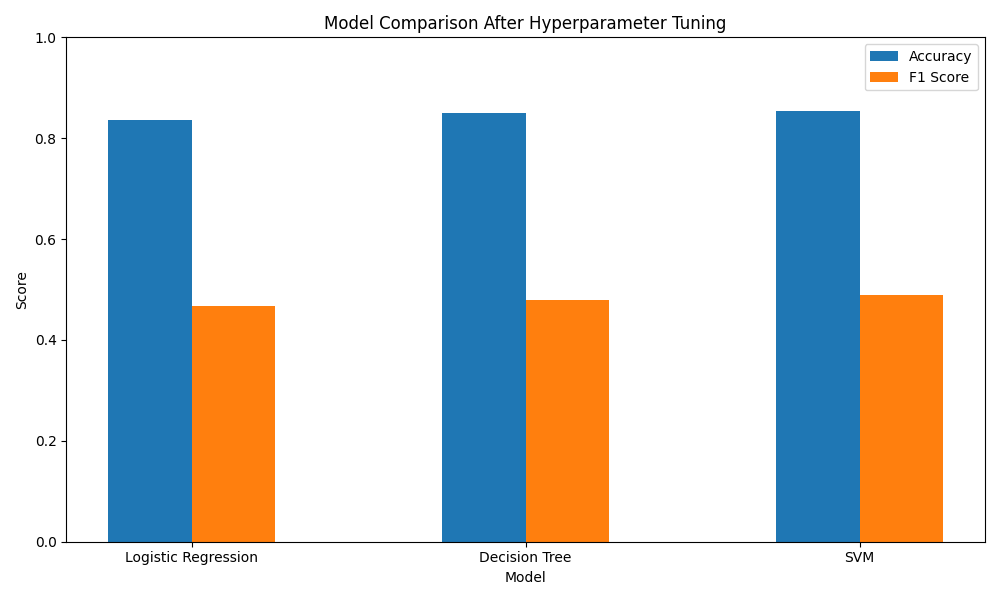
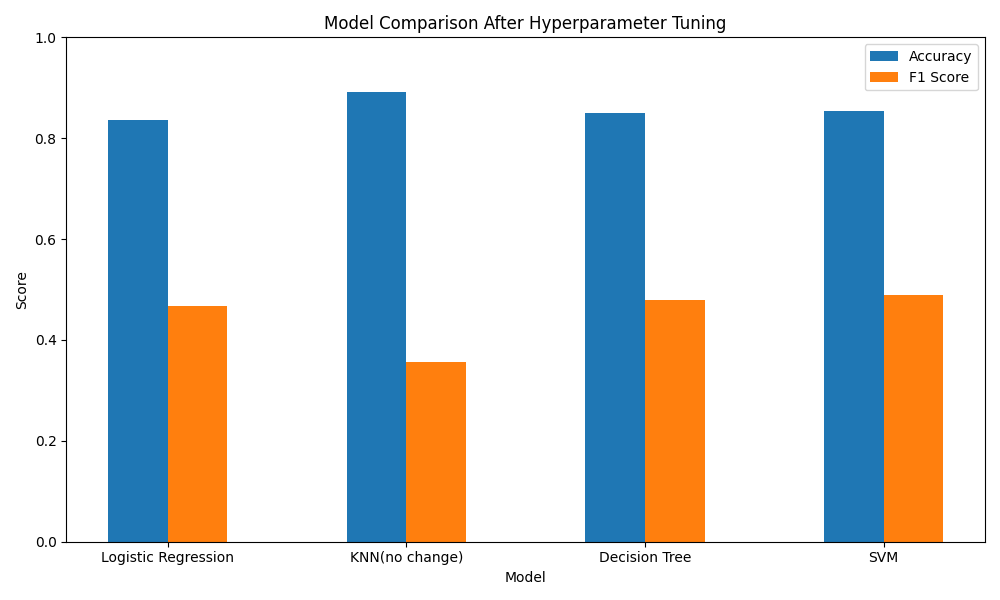
updating README

Changed region(s): [[0.341, 0.15, 0.713, 0.96], [0.775, 0.18, 0.899, 0.96], [0.093, 0.18, 0.279, 0.96]]

diff --git a/Assignment_17.1/README.md b/Assignment_17.1/README.md
@@ -22,18 +22,20 @@ The classification goal is to predict if the client will subscribe a term deposi
 ## Improving the model by finding optimal hyperparameters.
 | Model | Train Time | Test Accuracy | F1 Score | 
 | ----- | ---------- | -----------   | -------- | 
-| KNN | 8.9s | 0.9120 | 0.8926 | 
-| Decision Tree | 4.5s | 0.9002 | 0.3227 | 
-| SVM | 3m 48.8s | 0.8949 |  0.3687 | 
+| Logistic Regression | 3.6s | 0.9012 | 0.3414 | 
+| KNN | 7.7s | 0.8925 | 0.3571 | 
+| Decision Tree | 4.8s | 0.9002 | 0.3884 | 
+| SVM | 3m 44s | 0.8949 |  0.3841 | 
 
 ![tuning](images/model_comparison_after_tuning.png)
 
 ## Additional improvements using balanced weights
 | Model | Train Time | Test Accuracy | F1 Score | 
 | ----- | ---------- | -----------   | -------- | 
-| KNN | 8.9s | 0.83512 | 0.4675 | 
+| Logistic Regression | 8.9s | 0.83512 | 0.4675 | 
 | Decision Tree | 4.5s | 0.8499 | 0.4800 | 
 | SVM | 3m 48.8s | 0.8532 |  0.4901 | 
+* No change in KNN (balancing does not apply)
 
 ![balanced](images/model_comparison_after_tuning_balanced.png)
 
